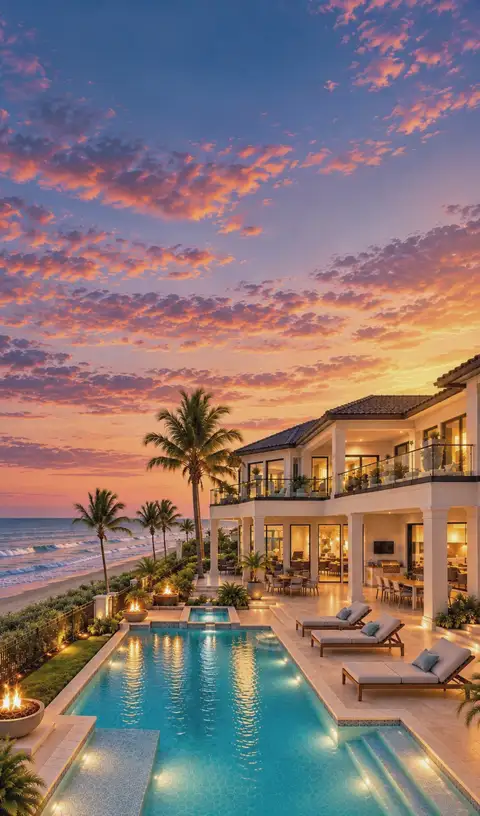
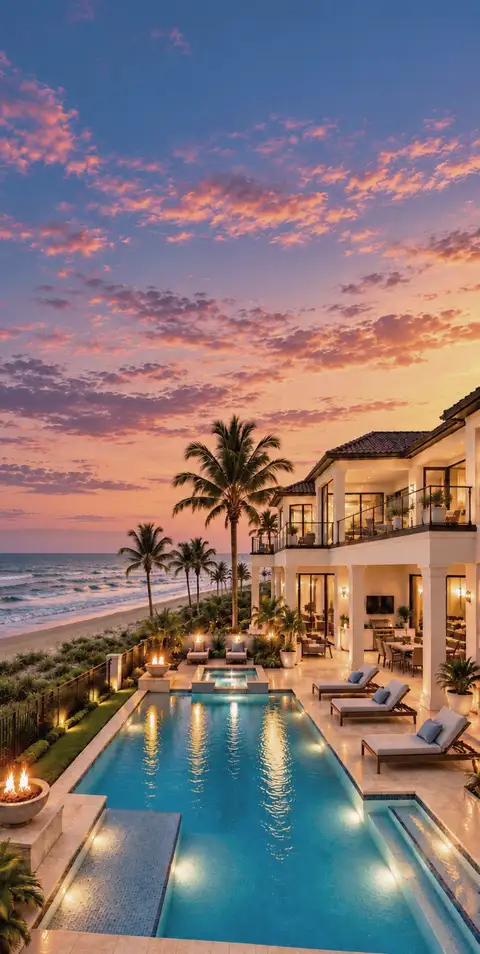
Phone hero: calmer-sky vertical photo with pool and ocean (preview)
Claude-Session: https://claude.ai/code/session_013ggLhpYx6u584xHdLfZymQ

diff --git a/app/page.js b/app/page.js
@@ -202,11 +202,11 @@ export default async function HomePage() {
   // `priority` used to do this, and the <picture> below doesn't get React's
   // automatic image preload. One per screen size, so phones only fetch the
   // phone file.
-  preload('/hero/hero-phone-640.avif?v=10', {
+  preload('/hero/hero-phone-640.avif?v=11', {
     as: 'image',
     type: 'image/avif',
     media: '(max-width: 640px)',
-    imageSrcSet: '/hero/hero-phone-480.avif?v=10 1x, /hero/hero-phone-640.avif?v=10 2x',
+    imageSrcSet: '/hero/hero-phone-480.avif?v=11 1x, /hero/hero-phone-640.avif?v=11 2x',
     fetchPriority: 'high',
   });
   preload('/hero/hero-1544.avif?v=7', {
@@ -254,12 +254,12 @@ export default async function HomePage() {
             <source
               media="(max-width: 640px)"
               type="image/avif"
-              srcSet="/hero/hero-phone-480.avif?v=10 1x, /hero/hero-phone-640.avif?v=10 2x"
+              srcSet="/hero/hero-phone-480.avif?v=11 1x, /hero/hero-phone-640.avif?v=11 2x"
             />
             <source
               media="(max-width: 640px)"
               type="image/webp"
-              srcSet="/hero/hero-phone-480.webp?v=10 1x, /hero/hero-phone-640.webp?v=10 2x"
+              srcSet="/hero/hero-phone-480.webp?v=11 1x, /hero/hero-phone-640.webp?v=11 2x"
             />
             <source type="image/avif" srcSet="/hero/hero-1080.avif?v=7 1080w, /hero/hero-1544.avif?v=7 1544w" sizes="100vw" />
             <img
